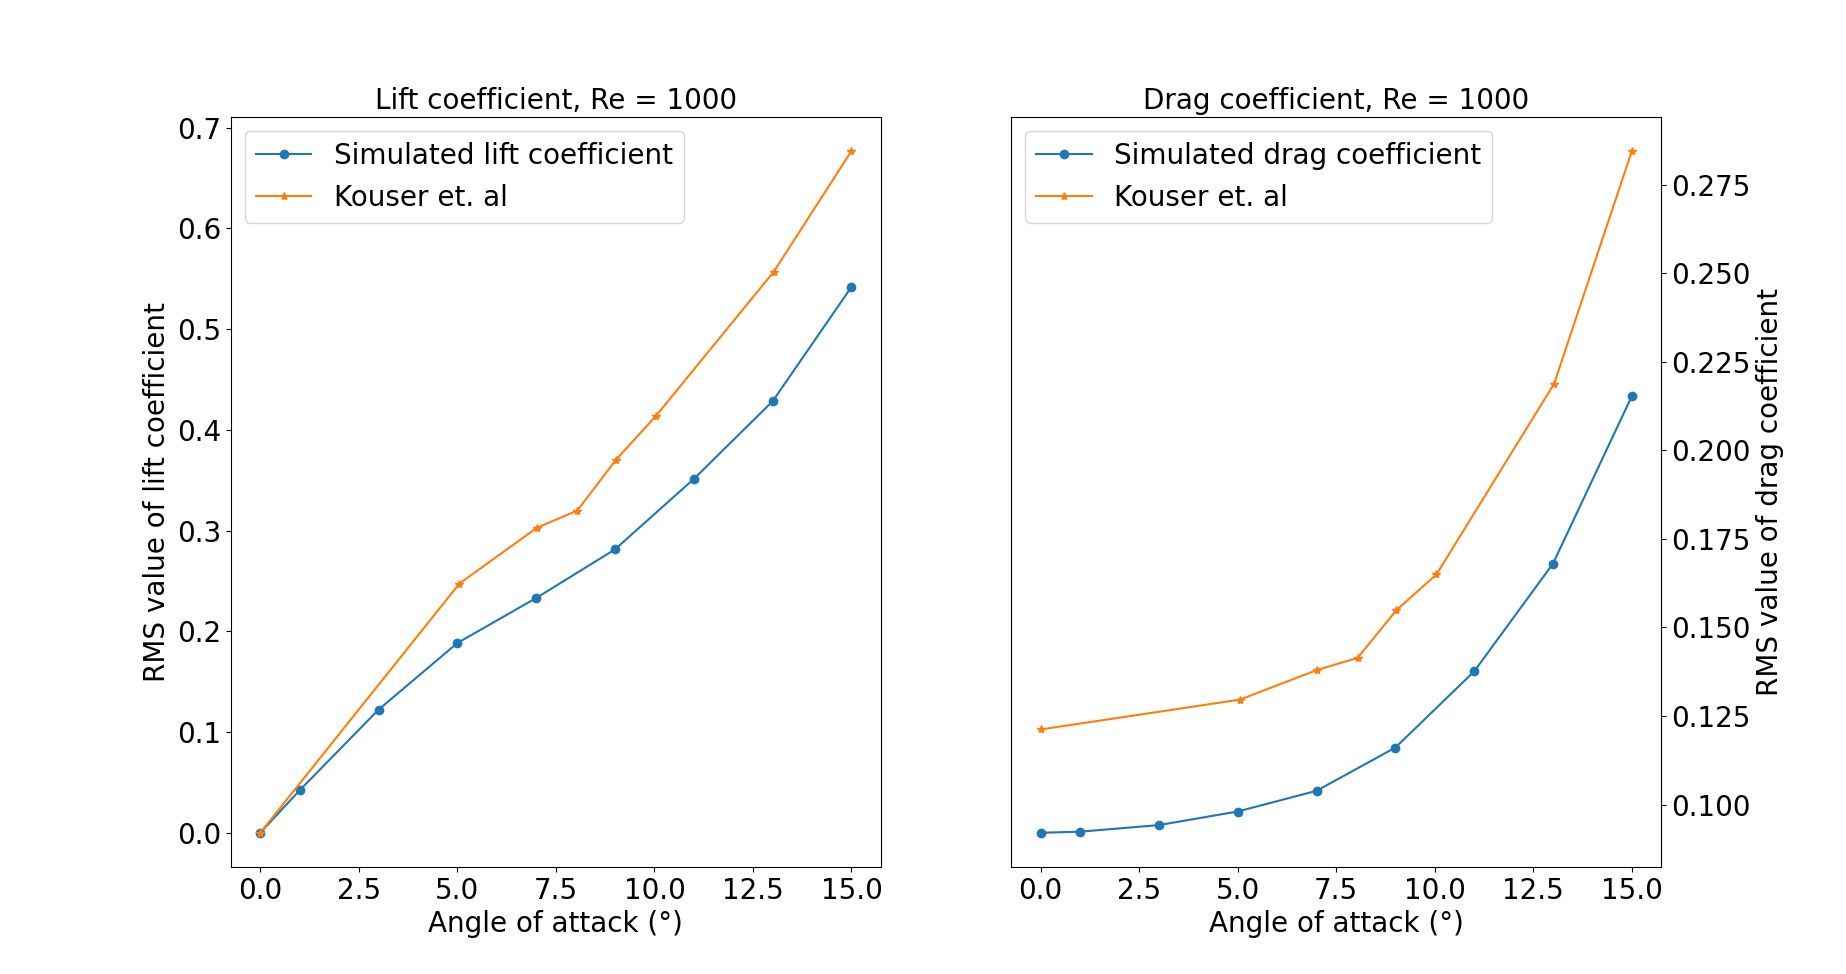
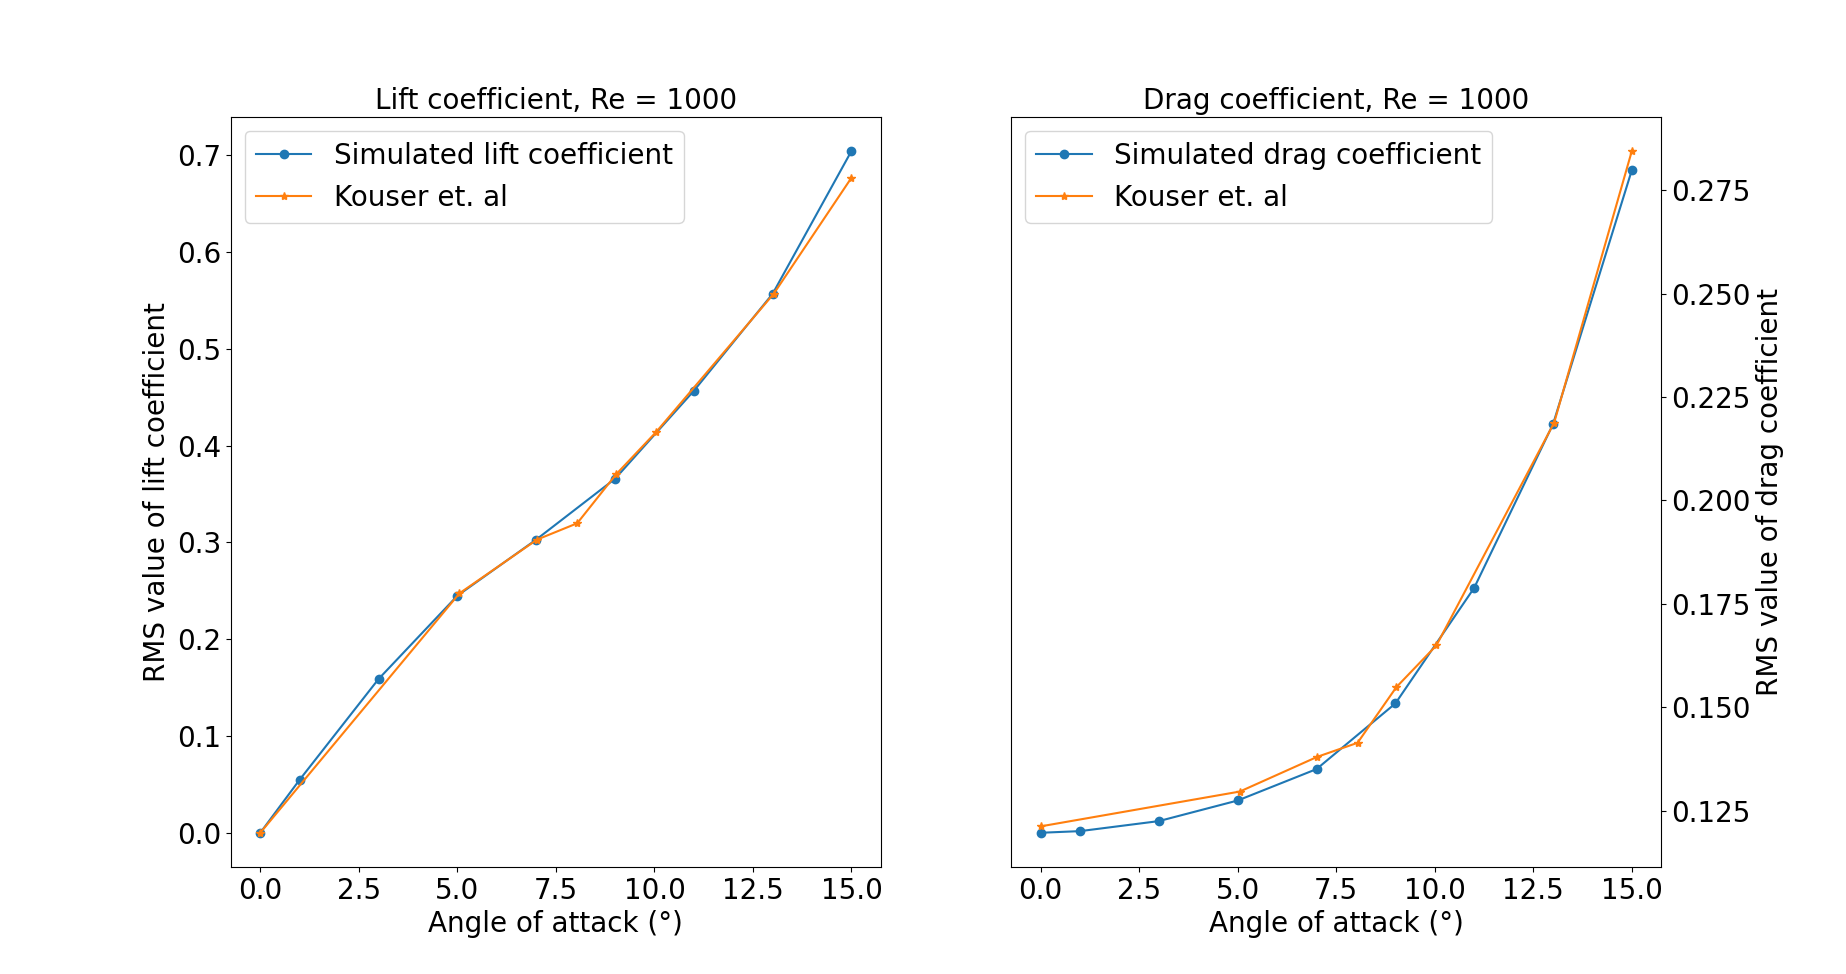
typo in .py removed --> the fit for Cl/Cd is much better

diff --git a/examples/incompressible-flow/2d-naca0012-low-reynolds/post_processing.py b/examples/incompressible-flow/2d-naca0012-low-reynolds/post_processing.py
@@ -146,7 +146,7 @@ def printClCd():
 
     for i in range(0,len(pathList)):
         list_of_list_of_vars_name, list_of_list_of_vars = read_my_data(pathList[i])
-        list_var_interet = [(2 / 1.3) * list_of_list_of_vars[0][1][cut:-cutLast], (2 / 1.3) * list_of_list_of_vars[0][2][cut:-cutLast],
+        list_var_interet = [2 * list_of_list_of_vars[0][1][cut:-cutLast], 2 * list_of_list_of_vars[0][2][cut:-cutLast],
                             list_of_list_of_vars[0][4][cut:-cutLast],
                             list_of_list_of_vars[0][5][cut:-cutLast], list_of_list_of_vars[0][7][cut:-cutLast],
                             list_of_list_of_vars[0][8][cut:-cutLast]]
@@ -227,7 +227,7 @@ def spectralAnalysis():
 
     for i in range(8,9):
         list_of_list_of_vars_name, list_of_list_of_vars = read_my_data(pathList[angleIndex])
-        list_var_interet = [(2 / 1.3) * list_of_list_of_vars[0][1][cut:], (2 / 1.3) * list_of_list_of_vars[0][2][cut:],
+        list_var_interet = [2 * list_of_list_of_vars[0][1][cut:], 2 * list_of_list_of_vars[0][2][cut:],
                             list_of_list_of_vars[0][4][cut:],
                             list_of_list_of_vars[0][5][cut:], list_of_list_of_vars[0][7][cut:],
                             list_of_list_of_vars[0][8][cut:]]

diff --git a/doc/source/examples/incompressible-flow/2d-naca0012-low-reynolds/2d-naca0012-low-reynolds.rst b/doc/source/examples/incompressible-flow/2d-naca0012-low-reynolds/2d-naca0012-low-reynolds.rst
@@ -231,7 +231,7 @@ with :math:`F_L` and :math:`F_D`, respectively, the lift and drag forces. Those 
         
 .. image:: image/cl_cd_results_plot.png
 
-There is a slight variation of the results obtained compared to the literature results. This may be due to the discontinuity at the trailing edge or a resolution not precise enough. Still, the evolution observed is relevant.
+The lift and drag coefficient obtained with the simulations fit the ones given by Kouser et al. 
 
 One can also see the low-velocity zones on the upper part of the airfoil, which corresponds to the recirculating zone: the ``noslip`` condition on the NACA imposes a zero velocity condition on the fluid. The following streamline representation helps to see the movements of the fluid inside the recirculating zone: 
 
